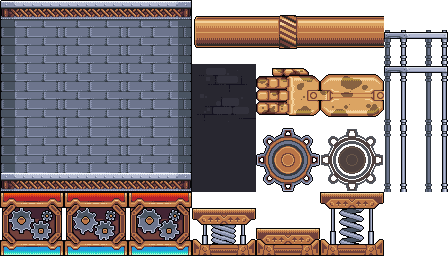
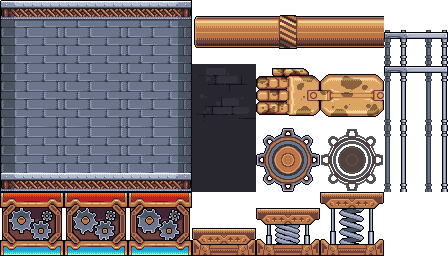
HE GO BOIIIIING

Changed region(s): [[0.4062, 0.8125, 0.7188, 0.9688]]

diff --git a/src/game/platforms/Platform.cpp b/src/game/platforms/Platform.cpp
@@ -26,7 +26,10 @@ bool Platform::IsVisible(uint8_t filter) const
 
 void Platform::CollideTop(Sprite* entity)
 {
-    auto* player = (Player*)entity;
+    auto* player = dynamic_cast<Player*>(entity);
+    if (player == nullptr)
+        return;
+    // auto* player = (Player*)entity;
 
     float platformTop = this->boundingBox->Top();
     float halfHeight = player->GetBoundingBox()->GetHalfHeight();
@@ -38,7 +41,10 @@ void Platform::CollideTop(Sprite* entity)
 
 void Platform::CollideBottom(Sprite* entity)
 {
-    auto* player = (Player*)entity;
+    auto* player = dynamic_cast<Player*>(entity);
+    if (player == nullptr)
+        return;
+    // auto* player = (Player*)entity;
 
     float platformBottom = this->boundingBox->Bottom();
     float halfHeight = player->GetBoundingBox()->GetHalfHeight();
@@ -49,7 +55,10 @@ void Platform::CollideBottom(Sprite* entity)
 
 void Platform::CollideLeft(Sprite* entity)
 {
-    auto* player = (Player*)entity;
+    auto* player = dynamic_cast<Player*>(entity);
+    if (player == nullptr)
+        return;
+    // auto* player = (Player*)entity;
 
     float platformLeft = this->boundingBox->Left();
     float halfWidth = player->GetBoundingBox()->GetHalfWidth();
@@ -60,7 +69,10 @@ void Platform::CollideLeft(Sprite* entity)
 
 void Platform::CollideRight(Sprite* entity)
 {
-    auto* player = (Player*)entity;
+    auto* player = dynamic_cast<Player*>(entity);
+    if (player == nullptr)
+        return;
+    // auto* player = (Player*)entity;
 
     float platformRight = this->boundingBox->Right();
     float halfWidth = player->GetBoundingBox()->GetHalfWidth();

diff --git a/src/game/platforms/Spring.cpp b/src/game/platforms/Spring.cpp
@@ -1,4 +1,10 @@
 #include "game/platforms/Spring.h"
+#include "engine/Player.h"
+
+#define BOUNCE_SPEED 10.5f
+
+#define SPRITE_CLIP_START_X 3
+#define SPRITE_CLIP_END_X 5
 
 using namespace game;
 using namespace platforms;
@@ -6,16 +12,15 @@ using namespace platforms;
 void Spring::CollideTop(Sprite* entity)
 {
     Platform::CollideTop(entity);
-    // TODO Bounce player
-    // TODO Animate spring
-    /*
-     * Spring should animate between three frames (see sprite sheet)
-     * It should go forward in frame-count when the player is being launched,
-     * And then backwards after a short delay. The hitbox should change only on
-     * the third frame of animation, allowing the player to be launched successfully
-     * without any collision issues. Laslty, being launched by the Spring needs
-     * to ensure that the player has no control over their y-velocity (jump button disabled)
-     */
+
+    auto* player = dynamic_cast<Player*>(entity);
+    if (player == nullptr)
+        return;
+
+    player->SetJumping(true);
+    player->ChangeVY(BOUNCE_SPEED);
+
+    this->spriteClipX = 5;
 }
 
 void Spring::SetBoundingBox(float boundsWidth, float boundsHeight)
@@ -27,4 +32,9 @@ void Spring::SetBoundingBox(float boundsWidth, float boundsHeight)
     float centerY = (float)this->y - ((float)this->height - halfHeight);
 
     this->boundingBox = new BoundingBox(centerX, centerY, halfWidth, halfHeight);
+}
+
+void Spring::Animate()
+{
+
 }

diff --git a/src/Game.cpp b/src/Game.cpp
@@ -12,14 +12,14 @@
 #define BUFFER_WIDTH 800
 #define BUFFER_HEIGHT 600
 
-#define GRAVITY 0.25f
+#define GRAVITY 0.3f
 #define FRICTION 0.88f
 
 #define PLAYER_MOVE_SPEED 3.5f
-#define PLAYER_JUMP_SPEED 8.3f
+#define PLAYER_JUMP_SPEED 8.5f
 
 #define PLAYER_MAX_MOVE_SPEED 4.1f
-#define PLAYER_MAX_JUMP_SPEED 8.5f
+#define PLAYER_MAX_FALL_SPEED 9.0f
 #define PLAYER_MIN_MOVE_SPEED 0.2f
 
 using namespace engine;
@@ -119,7 +119,7 @@ void Update(Robot& player, Level& level)
         player.SetJumping(true);
         player.ChangeVY(PLAYER_JUMP_SPEED);
     }
-    player.Move(GRAVITY, FRICTION, PLAYER_MAX_JUMP_SPEED, PLAYER_MAX_MOVE_SPEED, PLAYER_MIN_MOVE_SPEED);
+    player.Move(GRAVITY, FRICTION, PLAYER_MAX_FALL_SPEED, PLAYER_MAX_MOVE_SPEED, PLAYER_MIN_MOVE_SPEED);
 
     level.CheckPhysics(player);
     level.ScrollBackground(player);

diff --git a/src/engine/Sprite.cpp b/src/engine/Sprite.cpp
@@ -54,11 +54,4 @@ void Sprite::Render()
         Window::RenderTextureRotated(*this->spritesheet, this->rotation, actualX, actualY, this->width, this->height);
     else
         Window::RenderTexture(*this->spritesheet, actualX, actualY, this->width, this->height);
-
-    int bx = (int)(this->boundingBox->Left() - (float)Viewport::GetX());
-    int by = (int)Window::GetBufferHeight() - (int)(this->boundingBox->Top() - (float)Viewport::GetY());
-    int bw = (int)(this->boundingBox->GetHalfWidth() * 2.0f);
-    int bh = (int)(this->boundingBox->GetHalfHeight() * 2.0f);
-
-    Window::RenderRect(bx, by, bw, bh, 255, 0, 0, 255);
 }

diff --git a/src/engine/Player.cpp b/src/engine/Player.cpp
@@ -54,11 +54,11 @@ bool Player::IsJumping() const
     return this->jumping;
 }
 
-void Player::Move(float gravity, float friction, float maxJumpSpeed, float maxMoveSpeed, float minMoveSpeed)
+void Player::Move(float gravity, float friction, float maxFallSpeed, float maxMoveSpeed, float minMoveSpeed)
 {
     this->vy -= gravity;
 
-    this->vy = fmaxf(fminf(this->vy, maxJumpSpeed), -maxJumpSpeed);
+    this->vy = fmaxf(this->vy, -maxFallSpeed);
     this->vx = fmaxf(fminf(this->vx, maxMoveSpeed), -maxMoveSpeed);
 
     if (this->boundingBox != nullptr)

diff --git a/src/game/Assets.cpp b/src/game/Assets.cpp
@@ -165,7 +165,7 @@ Platform* Assets::LoadPlatformData(Texture* tileSheet, ifstream* file)
     auto rotation = f * 90;
 
     Platform* platform;
-    if (sx == 4 && sy == 3)
+    if (sx == 3 && sy == 3)
         platform = new Spring(tileSheet, rotation, sx, sy, s, x, y, w, h);
     else
         platform = new Platform(tileSheet, rotation, sx, sy, s, x, y, w, h);

diff --git a/include/game/platforms/Platform.h b/include/game/platforms/Platform.h
@@ -24,6 +24,8 @@ namespace game
             void CollideBottom(Sprite* entity) override;
             void CollideLeft(Sprite* entity) override;
             void CollideRight(Sprite* entity) override;
+
+            void Animate() override {}
         };
     }
 }

diff --git a/include/game/Robot.h b/include/game/Robot.h
@@ -27,8 +27,8 @@ namespace game
         void SetActiveFilter(uint8_t activeFilter_);
 
         void UpdateDirection();
-        void Animate();
-
+        
+        void Animate() override;
         void Render() override;
     };
 }

diff --git a/include/game/platforms/Spring.h b/include/game/platforms/Spring.h
@@ -15,6 +15,7 @@ namespace game
 
             void CollideTop(Sprite* entity) override;
             void SetBoundingBox(float boundsWidth, float boundsHeight) override;
+            void Animate() override;
         };
     }
 }

diff --git a/src/game/Level.cpp b/src/game/Level.cpp
@@ -47,6 +47,8 @@ void Level::CheckPhysics(Robot& player)
 
         if (player.GetBoundingBox()->Intersects(platform->GetBoundingBox()))
             player.Collide(platform);
+
+        platform->Animate();
     }
 }
 

diff --git a/src/game/Robot.cpp b/src/game/Robot.cpp
@@ -111,6 +111,7 @@ void Robot::Animate()
     }
     else this->ticks ++;
 }
+
 void Robot::Render()
 {
     const struct Filter* drawFilter = FILTERS[this->activeFilter];

diff --git a/include/engine/Sprite.h b/include/engine/Sprite.h
@@ -31,6 +31,7 @@ namespace engine
         BoundingBox* GetBoundingBox();
 
         virtual void Render();
+        virtual void Animate() = 0;
     };
 }
 
